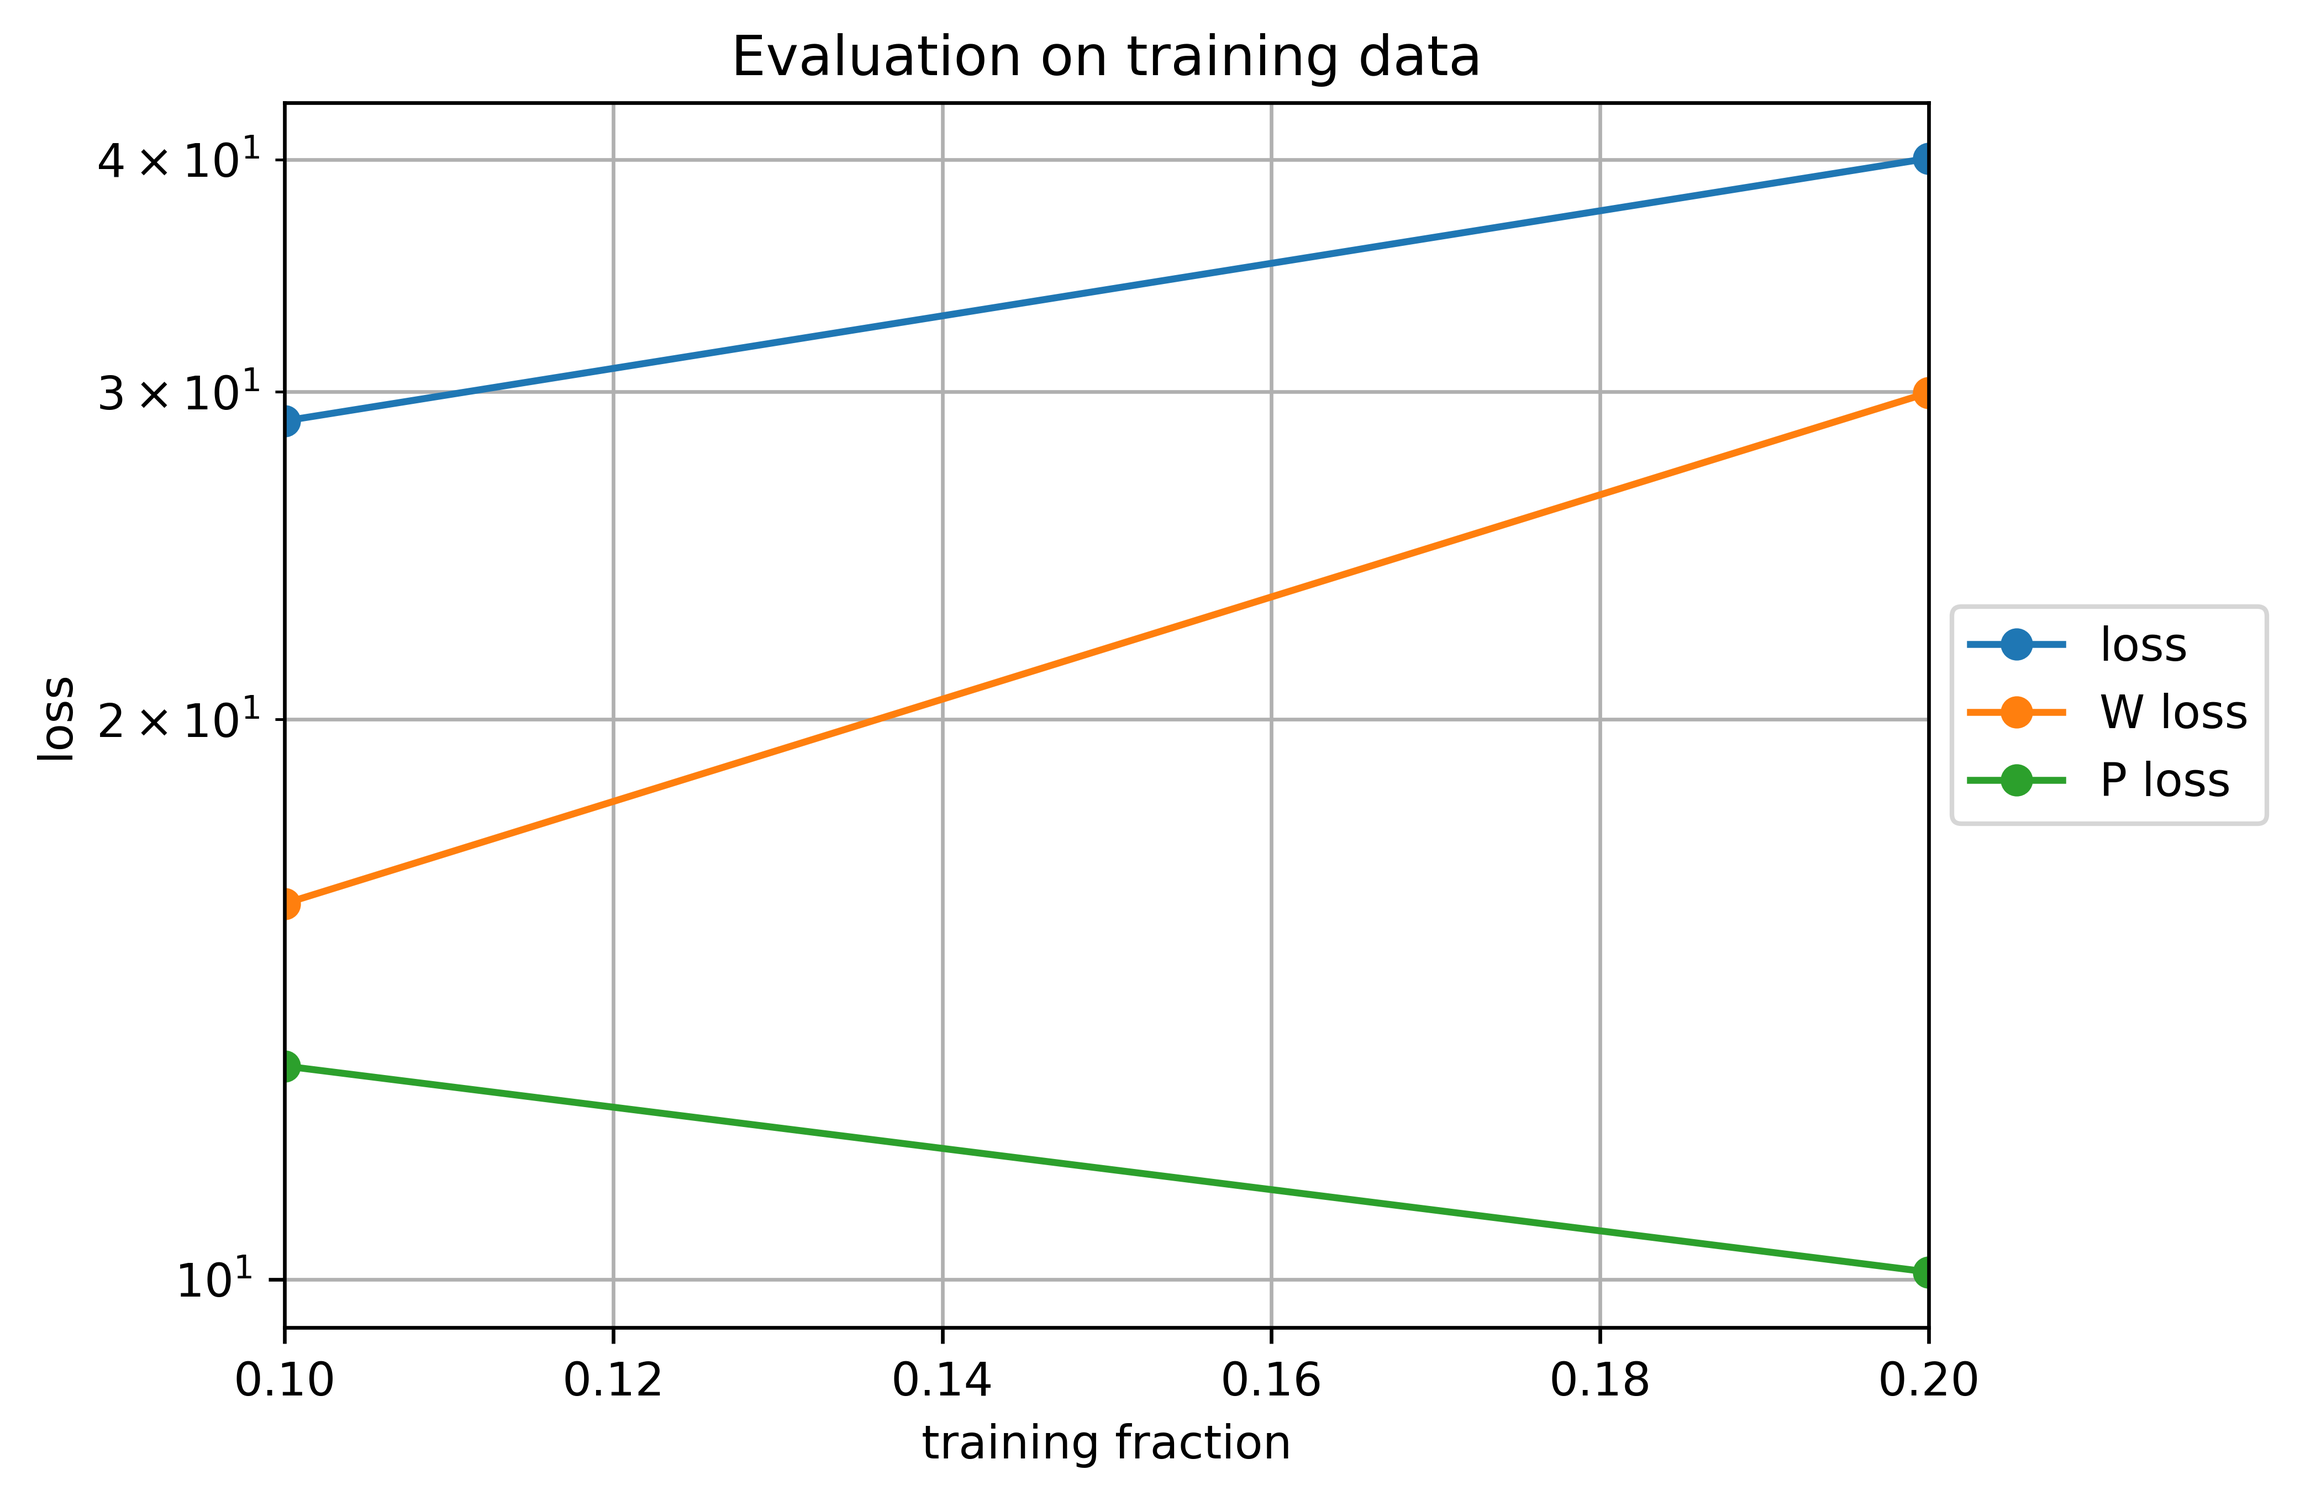
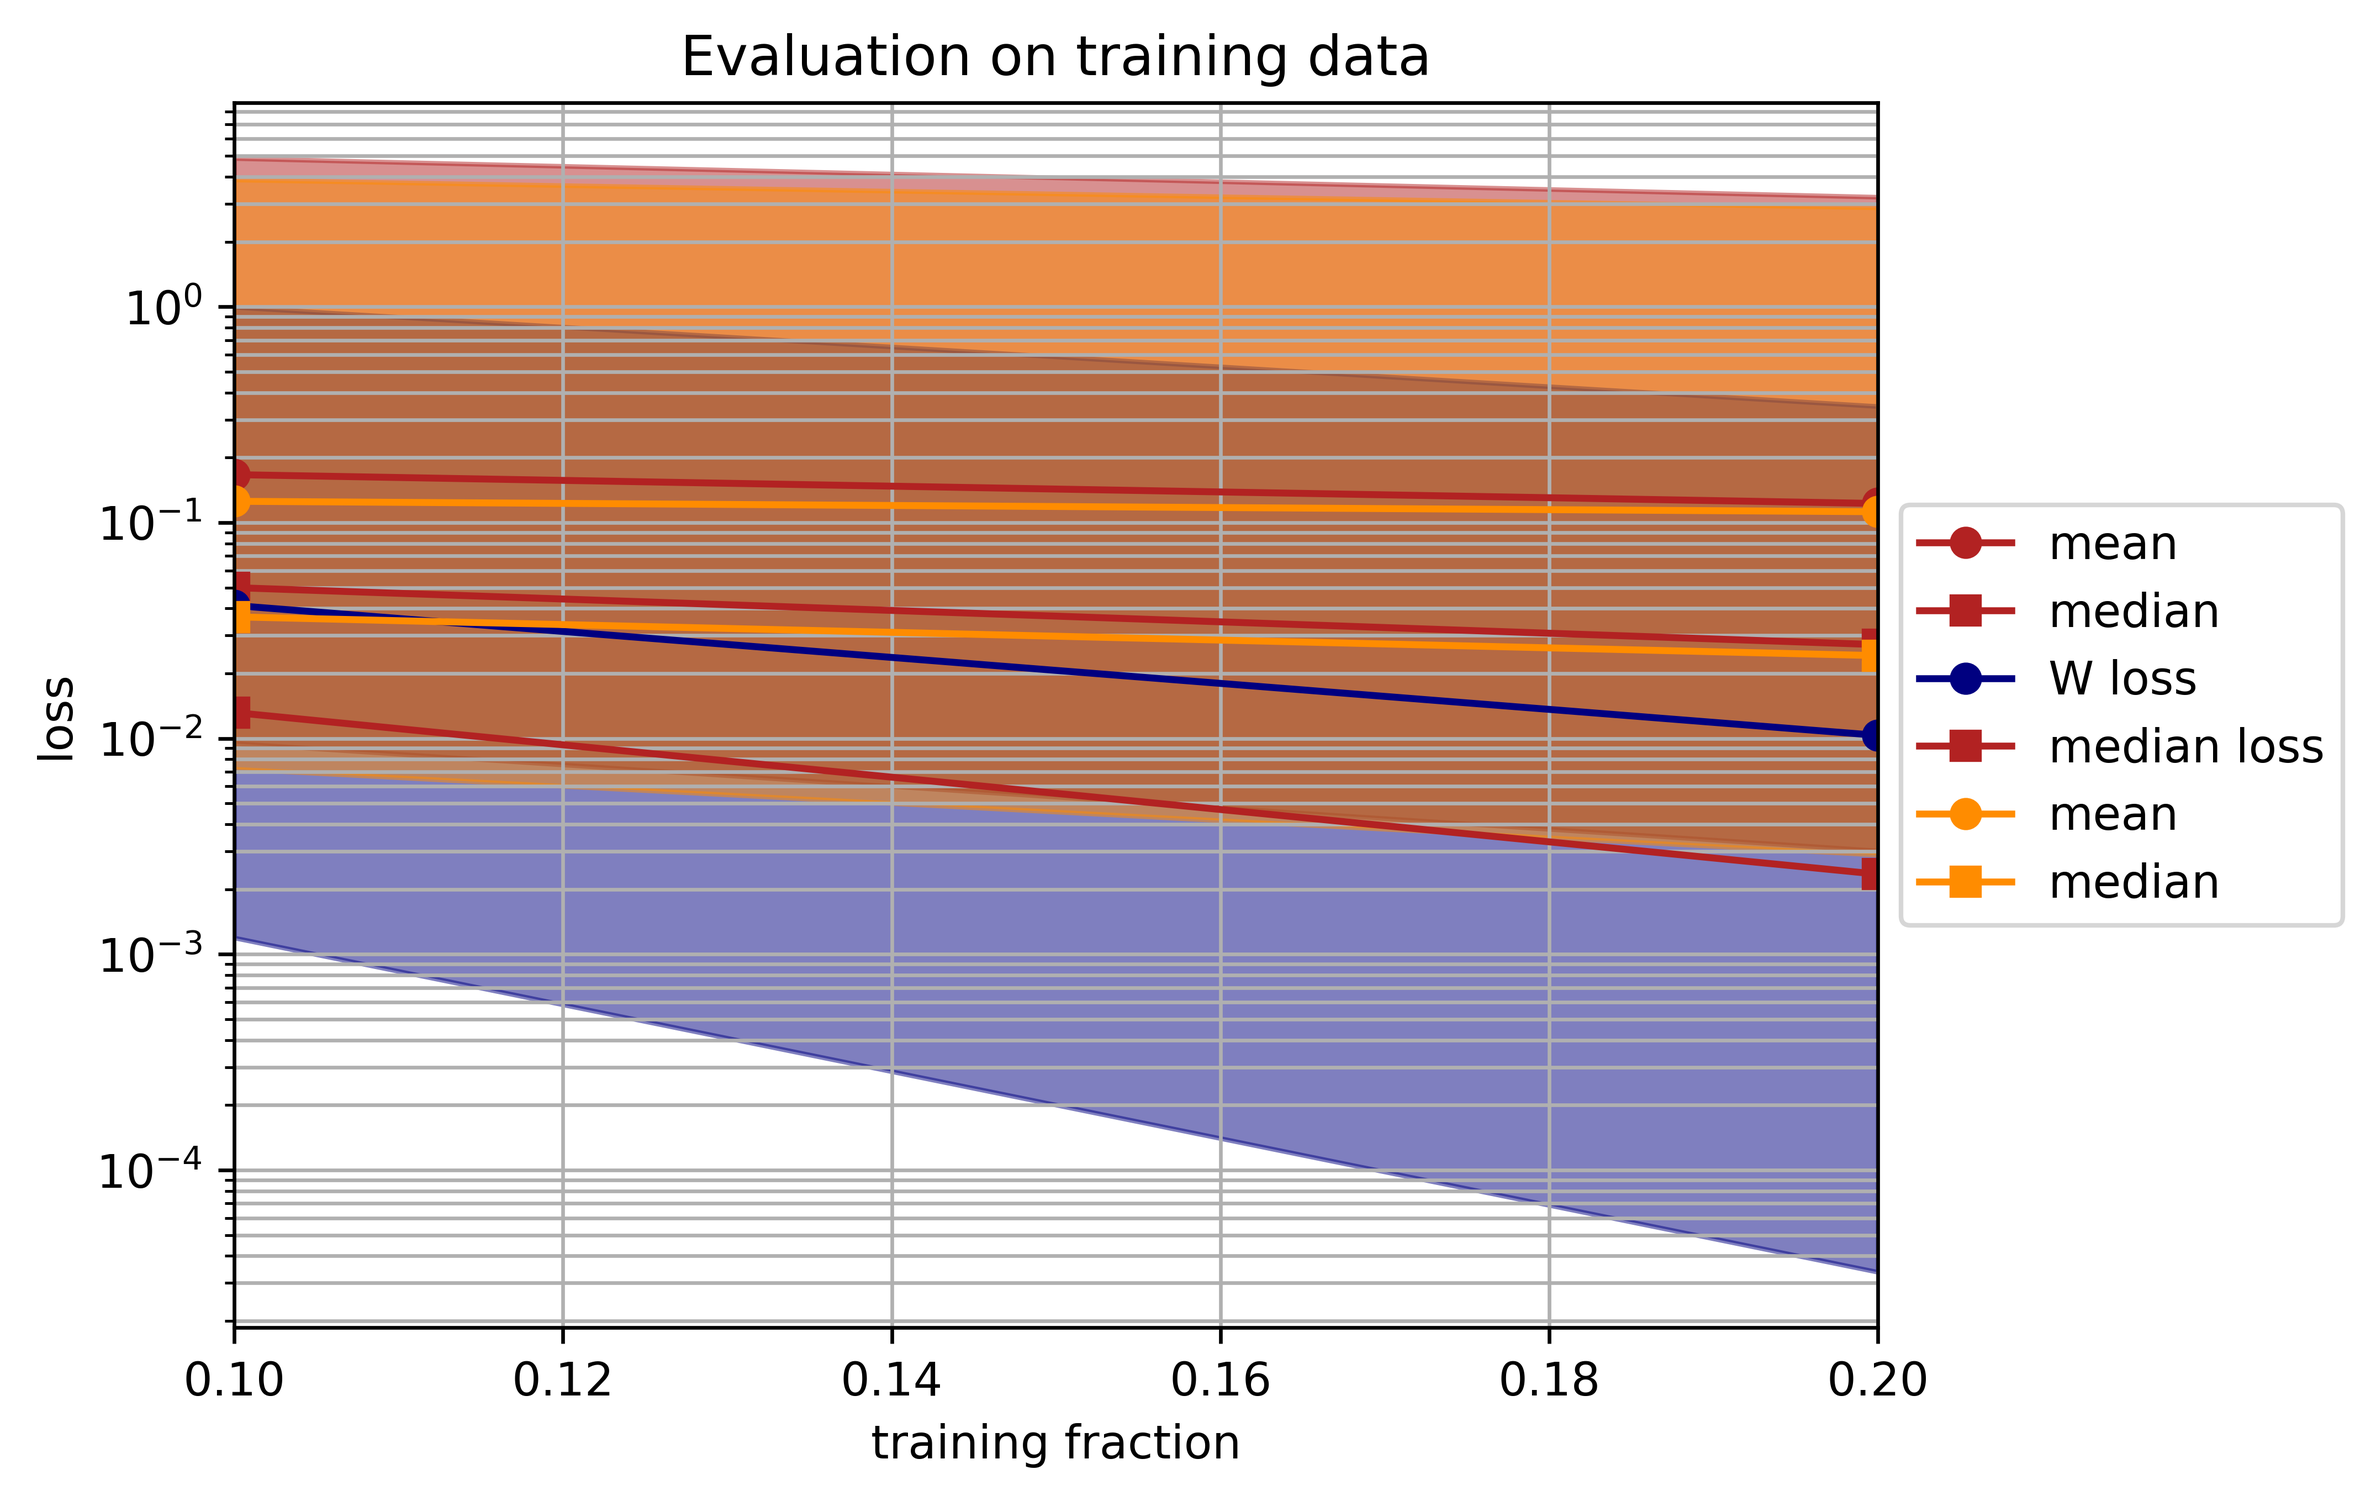
Added min-max to task 4 training. Changed DataFrame that will be written to output

diff --git a/Task_02/02_hyperelasticity_I/main_concentric_sampling.py b/Task_02/02_hyperelasticity_I/main_concentric_sampling.py
@@ -38,28 +38,57 @@ test_train_split = np.array([0.1,0.2])
 JMAX = 2
 t_type = 'PhysicsAugmented' # 'Naive'
 
-loss_weights = [1, 1] # only used for physics augmented training
+loss_weights = [0, 1] # only used for physics augmented training
 epochs = 300
 verbose = 0
 
+# create training and test split
+fnum = tf.random.shuffle(np.arange(1,FNUM + 1))
+ftrain, ftest = tf.split(fnum, [int(split * (FNUM + 1)), -1])
+
+# load test and train data paths
+train_paths = ld.generate_concentric_paths(ftrain)
+test_paths = ld.generate_concentric_paths(ftest)
+
 # initialization
-mean_train_losses = np.zeros([test_train_split.size, 3])
-mean_test_losses = np.zeros([test_train_split.size, 3])
+# mean_train_losses = np.zeros([test_train_split.size, 3])
+# mean_test_losses = np.zeros([test_train_split.size, 3])
+
+# median_train_losses = np.zeros([test_train_split.size, 3])
+# median_test_losses = np.zeros([test_train_split.size, 3])
+
+# max_train_losses = np.zeros([test_train_split.size, 3])
+# max_test_losses = np.zeros([test_train_split.size, 3])
+
+# min_train_losses = np.zeros([test_train_split.size, 3])
+# min_test_losses = np.zeros([test_train_split.size, 3])
+
+#tmp = pd.DataFrame(np.zeros([test_train_split.size, 3]),
+#            columns=['total', 'function', 'gradient'])
+#df_train = pd.concat([tmp, tmp, tmp, tmp], keys=('mean', 'median', 'max', 'min'))
+#df_test = pd.concat([tmp, tmp, tmp, tmp], keys=('mean', 'median', 'max', 'min'))
+
+train_losses = np.zeros([test_train_split.size, JMAX, len(train_paths), 3])
+test_losses = np.zeros([test_train_split.size, JMAX, len(test_paths), 3])
 
 t1 = now()
 for i, split in enumerate(test_train_split):
-    train_losses_tmp = np.zeros([JMAX,3])
-    test_losses_tmp = np.zeros([JMAX,3])
+    # mean_train_losses_tmp = np.zeros([JMAX,3])
+    # mean_test_losses_tmp = np.zeros([JMAX,3])
+
+    # median_train_losses_tmp = np.zeros([JMAX,3])
+    # median_test_losses_tmp = np.zeros([JMAX,3])
+
+    # max_train_losses_tmp = np.zeros([JMAX,3])
+    # max_test_losses_tmp = np.zeros([JMAX,3])
+
+    # min_train_losses_tmp = np.zeros([JMAX,3])
+    # min_test_losses_tmp = np.zeros([JMAX,3])
+    #train_losses_tmp = np.zeros([4, JMAX, 3])
+    #test_losses_tmp = np.zeros([4, JMAX, 3])
 
     for j in range(JMAX):
         print(f'Model {i * JMAX + (j + 1)}/{test_train_split.size * JMAX}')
-        # create training and test split
-        fnum = tf.random.shuffle(np.arange(1,FNUM + 1))
-        ftrain, ftest = tf.split(fnum, [int(split * (FNUM + 1)), -1])
-
-        # load test and train data
-        train_paths = ld.generate_concentric_paths(ftrain)
-        test_paths = ld.generate_concentric_paths(ftest)
 
         if t_type == 'PhysicsAugmented':
             tmodel = training.PhysicsAugmented(paths=train_paths, loss_weights=loss_weights,
@@ -71,12 +100,62 @@ for i, split in enumerate(test_train_split):
         tmodel.preprocess()
         tmodel.calibrate()
 
-        # evaluate
-        train_losses_tmp[j,:] = np.mean(tmodel.evaluate(train_paths), axis=0)
-        test_losses_tmp[j,:] = np.mean(tmodel.evaluate(test_paths), axis=0)
+        train_losses[i, j, :, :] = tmodel.evaluate(train_paths)
+        test_losses[i, j, :, :] = tmodel.evaluate(test_paths)
 
-    mean_train_losses[i,:] = np.mean(train_losses_tmp, axis=0)
-    mean_test_losses[i,:] = np.mean(test_losses_tmp, axis=0)
+        # evaluate
+        # mean_train_losses_tmp[j,:] = np.mean(tmodel.evaluate(train_paths), axis=0)
+        # mean_test_losses_tmp[j,:] = np.mean(tmodel.evaluate(test_paths), axis=0)
+
+        # median_train_losses_tmp[j,:] = np.median(tmodel.evaluate(train_paths), axis=0)
+        # median_test_losses_tmp[j,:] = np.median(tmodel.evaluate(test_paths), axis=0)
+
+        # max_train_losses_tmp[j,:] = np.max(tmodel.evaluate(train_paths), axis=0)
+        # max_test_losses_tmp[j,:] = np.max(tmodel.evaluate(test_paths), axis=0)
+
+        # min_train_losses_tmp[j,:] = np.min(tmodel.evaluate(train_paths), axis=0)
+        # min_test_losses_tmp[j,:] = np.min(tmodel.evaluate(test_paths), axis=0)
+
+        # train_losses_tmp[0,j,:] = np.mean(tmodel.evaluate(train_paths), axis=0)
+        # train_losses_tmp[1,j,:] = np.median(tmodel.evaluate(train_paths), axis=0)
+        # train_losses_tmp[2,j,:] = np.max(tmodel.evaluate(train_paths), axis=0)
+        # train_losses_tmp[3,j,:] = np.min(tmodel.evaluate(train_paths), axis=0)
+
+        # test_losses_tmp[0,j,:] = np.mean(tmodel.evaluate(test_paths), axis=0)
+        # test_losses_tmp[1,j,:] = np.median(tmodel.evaluate(test_paths), axis=0)
+        # test_losses_tmp[2,j,:] = np.max(tmodel.evaluate(test_paths), axis=0)
+        # test_losses_tmp[3,j,:] = np.min(tmodel.evaluate(test_paths), axis=0)
+
+    # mean_train_losses[i,:] = np.mean(mean_train_losses_tmp, axis=0)
+    # mean_test_losses[i,:] = np.mean(mean_test_losses_tmp, axis=0)
+
+    # median_train_losses[i,:] = np.median(median_train_losses_tmp, axis=0)
+    # median_test_losses[i,:] = np.median(median_test_losses_tmp, axis=0)
+
+    # max_train_losses[i,:] = np.max(max_train_losses_tmp, axis=0)
+    # max_test_losses[i,:] = np.max(max_test_losses_tmp, axis=0)
+
+    # min_train_losses[i,:] = np.min(min_train_losses_tmp, axis=0)
+    # min_test_losses[i,:] = np.min(min_test_losses_tmp, axis=0)
+
+# Depending on the type of training the total loss might only contain the value
+# of either training on the gradient or the functional value, e.g. if loss_weights
+# is set to [0, 1]. To make sure that the total loss is always equal to the sum of
+# all output losses it is necessary to compute the sum.
+train_losses[:,:,:,0] = np.sum(train_losses[:,:,:,1:3], axis=3)
+test_losses[:,:,:,0] = np.sum(test_losses[:,:,:,1:3], axis=3)
+
+mean_train_losses = np.mean(train_losses, axis=(1,2))
+median_train_losses = np.median(train_losses, axis=(1,2))
+min_train_losses = np.min(train_losses, axis=(1,2))
+max_train_losses = np.max(train_losses, axis=(1,2))
+
+mean_test_losses = np.mean(test_losses, axis=(1,2))
+median_test_losses = np.median(test_losses, axis=(1,2))
+min_test_losses = np.min(test_losses, axis=(1,2))
+max_test_losses = np.max(test_losses, axis=(1,2))
+
+
 
 t2 = now()
 print('it took', t2 - t1, '(sec) to calibrate and evaluate all models')
@@ -87,13 +166,24 @@ Plots
 
 '''
 
+# training
 fig = plt.figure(dpi=600)
 if t_type == 'PhysicsAugmented':
-    plt.semilogy(test_train_split,mean_train_losses[:,1] + mean_train_losses[:,2], marker='o', label='loss')
-    plt.semilogy(test_train_split,mean_train_losses[:,1], marker='o', label='W loss')
-    plt.semilogy(test_train_split,mean_train_losses[:,2], marker='o', label='P loss')
+    plt.semilogy(test_train_split,mean_train_losses[:,0], color='firebrick', marker='o', label='mean')
+    plt.semilogy(test_train_split,median_train_losses[:,0], color='firebrick', marker='s', label='median')
+    plt.fill_between(test_train_split, max_train_losses[:,0], min_train_losses[:,0], color='firebrick', alpha=0.5)
+    
+    plt.semilogy(test_train_split,mean_train_losses[:,1], color='navy', marker='o', label='W loss')
+    plt.semilogy(test_train_split,median_train_losses[:,1], color='firebrick', marker='s', label='median loss')
+    plt.fill_between(test_train_split, max_train_losses[:,1], min_train_losses[:,1], color='navy', alpha=0.5)
+
+    plt.semilogy(test_train_split,mean_train_losses[:,2], color='darkorange', marker='o', label='mean')
+    plt.semilogy(test_train_split,median_train_losses[:,2], color='darkorange', marker='s', label='median')
+    plt.fill_between(test_train_split, max_train_losses[:,2], min_train_losses[:,2], color='darkorange', alpha=0.5)
+
 else:
-    plt.semilogy(test_train_split,mean_train_losses[:,1], marker='o', label='P loss')
+    plt.semilogy(test_train_split, mean_train_losses[:,0], color='firebrick', marker='o', label='loss')
+    plt.fill_between(test_train_split, max_train_losses[:,0], min_train_losses[:,0], color='firebrick', alpha=0.5)
 plt.title('Evaluation on training data')
 plt.xlabel('training fraction')
 plt.ylabel('loss')
@@ -102,19 +192,33 @@ plt.grid(True, which='both')
 plt.legend(loc='center left', bbox_to_anchor=(1, 0.5))
 plt.savefig('images/training_loss.png', dpi=fig.dpi, bbox_inches='tight')
 
+
+# test
 fig = plt.figure(dpi=600)
 if t_type == 'PhysicsAugmented':
-    plt.semilogy(test_train_split,mean_test_losses[:,1] + mean_test_losses[:,2], marker='o', label='loss')
-    plt.semilogy(test_train_split,mean_test_losses[:,1], marker='o', label='W loss')
-    plt.semilogy(test_train_split,mean_test_losses[:,2], marker='o', label='P loss')
+    plt.semilogy(test_train_split,mean_test_losses[:,0], color='firebrick', marker='o', label='mean')
+    plt.semilogy(test_train_split,median_test_losses[:,0], color='firebrick', marker='s', label='median')
+    plt.fill_between(test_train_split, max_test_losses[:,0], min_test_losses[:,0], color='firebrick', alpha=0.5)
+    
+    plt.semilogy(test_train_split,mean_test_losses[:,1], color='navy', marker='o', label='W loss')
+    plt.semilogy(test_train_split,median_test_losses[:,1], color='firebrick', marker='s', label='median loss')
+    plt.fill_between(test_train_split, max_test_losses[:,1], min_test_losses[:,1], color='navy', alpha=0.5)
+
+    plt.semilogy(test_train_split,mean_test_losses[:,2], color='darkorange', marker='o', label='mean')
+    plt.semilogy(test_train_split,median_test_losses[:,2], color='darkorange', marker='s', label='median')
+    plt.fill_between(test_train_split, max_test_losses[:,2], min_test_losses[:,2], color='darkorange', alpha=0.5)
+
 else:
-    plt.semilogy(test_train_split,mean_test_losses[:,1], marker='o', label='P loss')
-plt.title('Evalutation on test data')
+    plt.semilogy(test_train_split, mean_test_losses[:,0], color='firebrick', marker='o', label='loss')
+    plt.fill_between(test_train_split, max_test_losses[:,0], min_train_losses[:,0], color='firebrick', alpha=0.5)
+
+plt.title('Evaluation on training data')
 plt.xlabel('training fraction')
 plt.ylabel('loss')
 plt.xlim(np.min(test_train_split), np.max(test_train_split))
 plt.grid(True, which='both')
 plt.legend(loc='center left', bbox_to_anchor=(1, 0.5))
+plt.savefig('images/training_loss.png', dpi=fig.dpi, bbox_inches='tight')
 plt.savefig('images/test_loss.png', dpi=fig.dpi, bbox_inches='tight')
 
 plt.show()
@@ -124,8 +228,23 @@ plt.show()
 Save results to file
 
 """
-df_train = pd.DataFrame(mean_train_losses, columns=['total', 'function', 'gradient'])
-df_test = pd.DataFrame(mean_test_losses, columns=['total', 'function', 'gradient'])
+df_train = pd.concat([pd.DataFrame(mean_train_losses),
+                    pd.DataFrame(median_train_losses),
+                    pd.DataFrame(min_train_losses),
+                    pd.DataFrame(max_train_losses)],
+                    keys=('mean', 'median', 'min', 'max'))
+df_train.columns = ['total', 'function', 'gradient']
+df_train['split'] = np.tile(test_train_split, 4)
+df_train = df_train[['split', 'total', 'function', 'gradient']]
+
+df_test = pd.concat([pd.DataFrame(mean_test_losses),
+                    pd.DataFrame(median_test_losses),
+                    pd.DataFrame(min_test_losses),
+                    pd.DataFrame(max_test_losses)],
+                    keys=('mean', 'median', 'min', 'max'))
+df_test.columns = ['total', 'function', 'gradient']
+df_test['split'] = np.tile(test_train_split, 4)
+df_test = df_train[['split', 'total', 'function', 'gradient']]
 
 df_train.to_csv('out/train_losses.csv', index=False)
 df_test.to_csv('out/test_losses.csv', index=False)

diff --git a/Task_02/02_hyperelasticity_I/training.py b/Task_02/02_hyperelasticity_I/training.py
@@ -58,7 +58,7 @@ class PhysicsAugmented:
         plt.xlabel('calibration epoch')
         plt.ylabel('log$_{10}$ MSE')
         plt.grid(which='both')
-        plt.legend()
+        plt.legend(loc='center left', bbox_to_anchor=(1, 0.5))
         fig.savefig('images/loss.png', dpi=fig.dpi, bbox_inches='tight')
 
     def evaluate(self, paths, showplots=False):
@@ -149,7 +149,7 @@ class Naive:
         plt.grid(which='both')
         plt.xlabel('calibration epoch')
         plt.ylabel('log$_{10}$ MSE')
-        plt.legend()
+        plt.legend(loc='center left', bbox_to_anchor=(1, 0.5))
         fig.savefig('images/loss.png', dpi=fig.dpi, bbox_inches='tight')
 
     def evaluate(self, paths, showplots=False):

diff --git a/Task_02/02_hyperelasticity_I/models.py b/Task_02/02_hyperelasticity_I/models.py
@@ -163,10 +163,7 @@ class InvariantLayer(layers.Layer):
         C_inv = tf.linalg.inv(C)
         I3 = tf.linalg.det(C)
         # catch error if a KerasTensor is passed
-        try:
-            Cof_C = tf.constant(np.array([I3i * C_inv[i,:,:] for i, I3i in enumerate(I3)]))
-        except:
-            Cof_C = C_inv
+        Cof_C = I3[:, tf.newaxis, tf.newaxis] * C_inv
         I5 = tf.linalg.trace(Cof_C @ G_ti)
         return tf.stack([I1, J, -J, I4, I5], axis=1)
     

diff --git a/Task_02/02_hyperelasticity_I/main_naive.py b/Task_02/02_hyperelasticity_I/main_naive.py
@@ -108,11 +108,11 @@ paths = [
     ]
 
 titles = [
-    r'Biaxial calibration',
-    r'Pure shear calibration',
-    r'Uniaxial calibration',
-    r'Biaxial test',
-    r'Mixed test'
+    'Biaxial calibration',
+    'Pure shear calibration',
+    'Uniaxial calibration',
+    'Biaxial test',
+    'Mixed test'
     ]
 
 fnames = [
